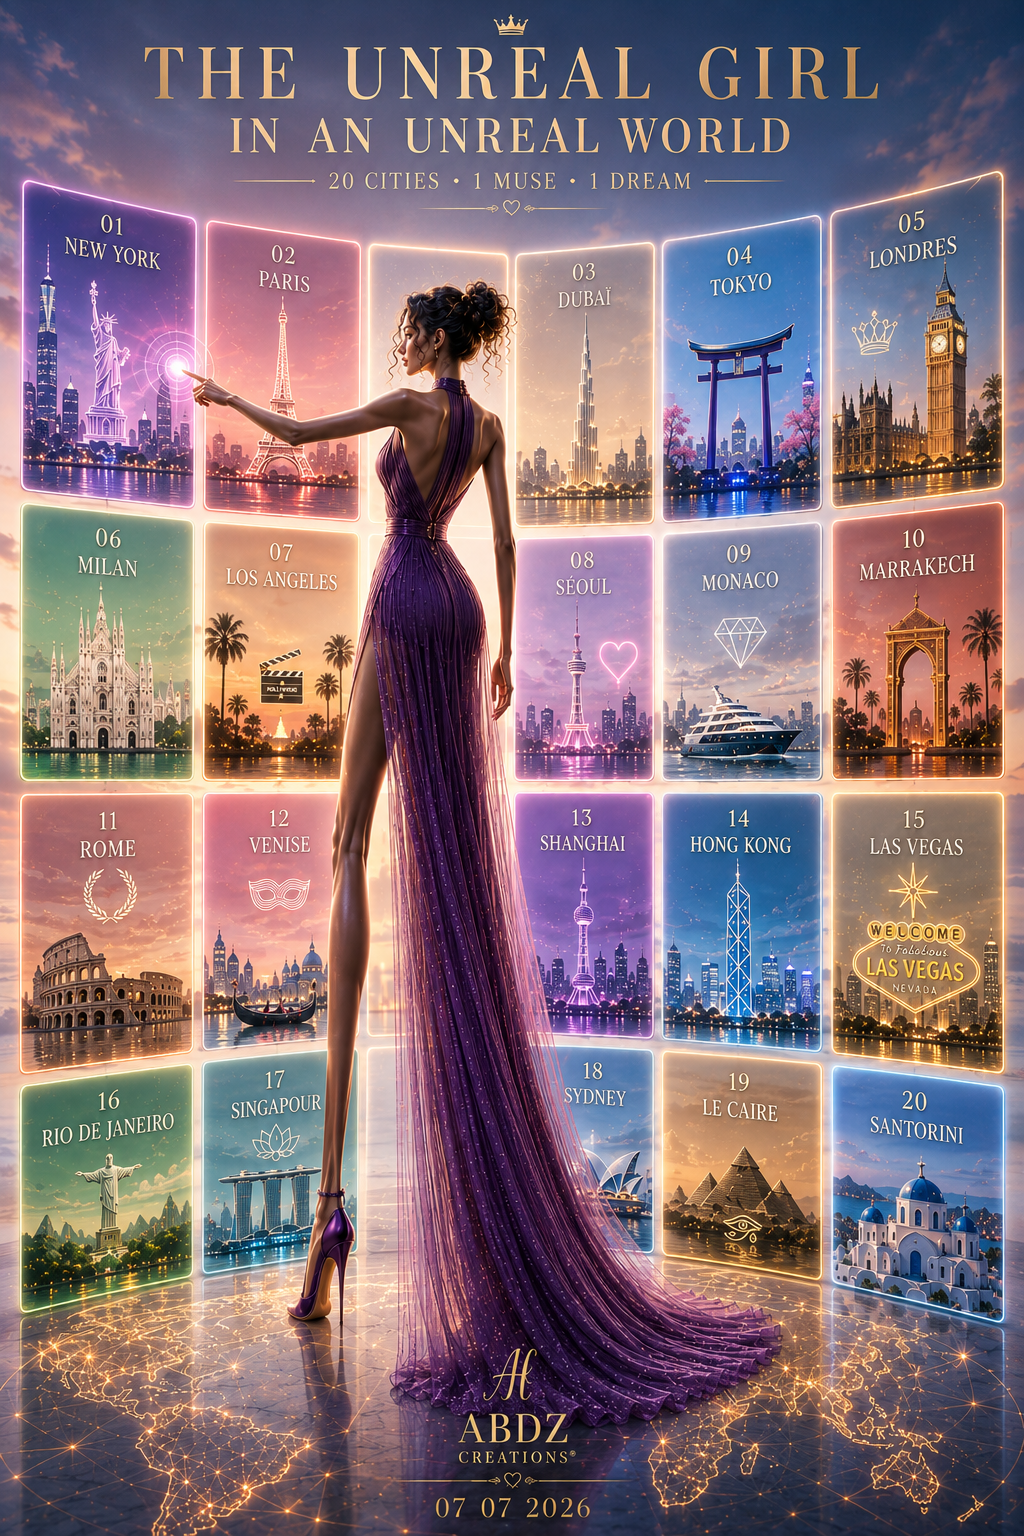
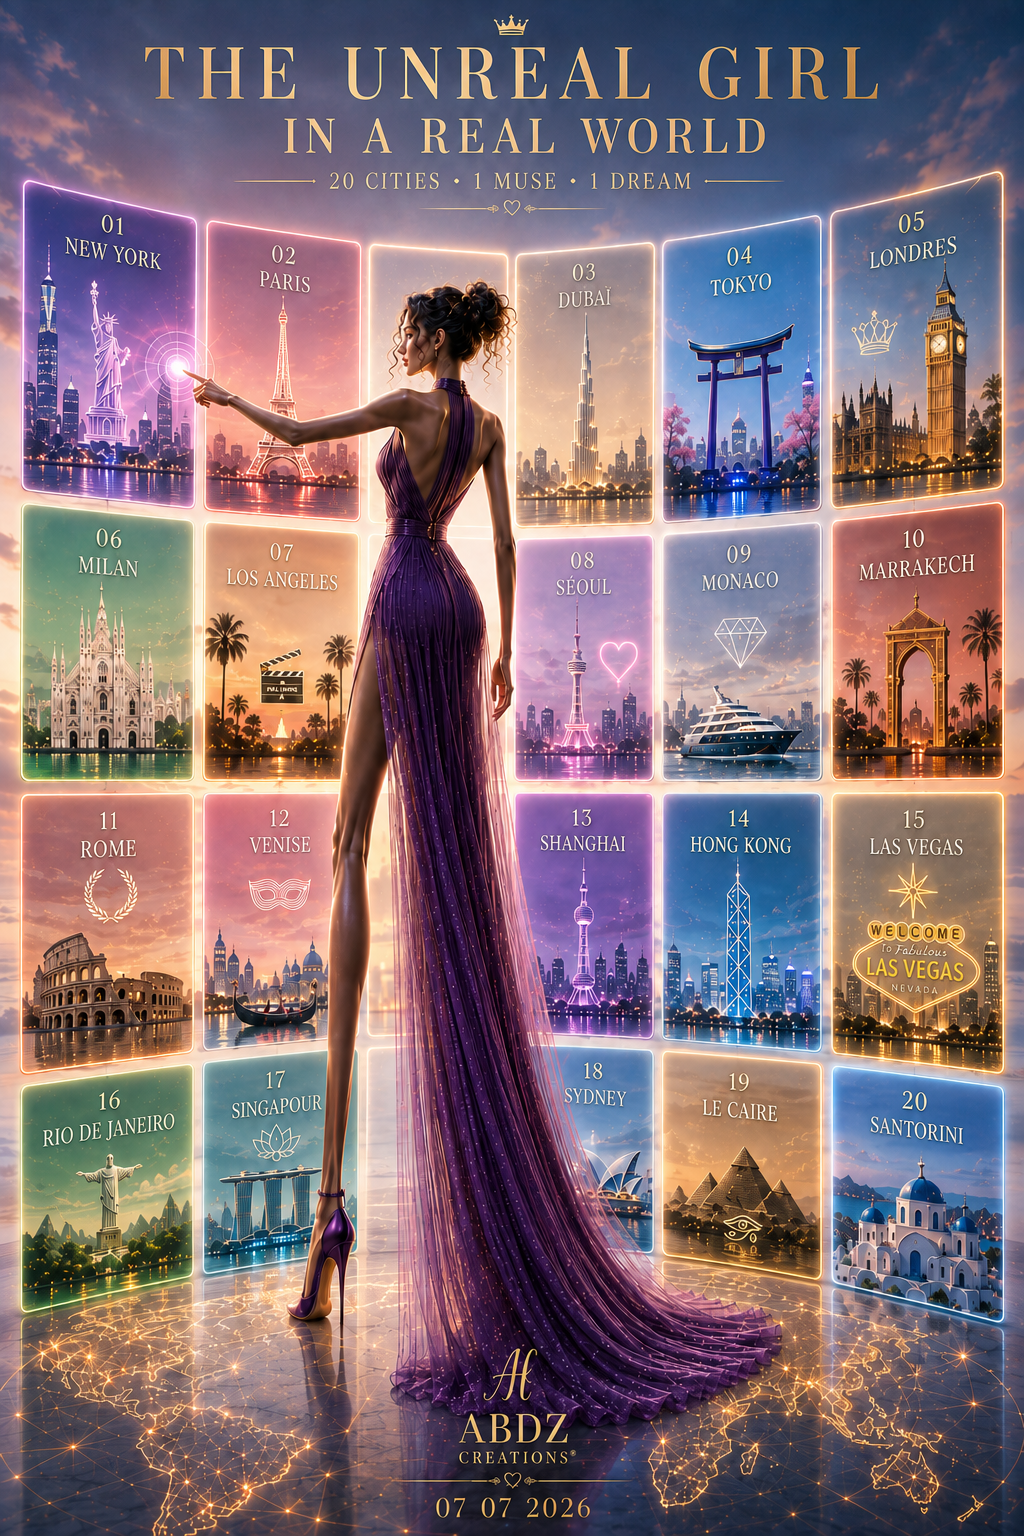
Corriger le voyage de L'Ireelle (#1)

diff --git a/ireelle-voyage/index.html b/ireelle-voyage/index.html
@@ -42,6 +42,36 @@
       font: inherit;
     }
 
+    .portfolio-return {
+      position: fixed;
+      top: 18px;
+      right: 18px;
+      z-index: 1000;
+      display: inline-flex;
+      align-items: center;
+      justify-content: center;
+      min-height: 46px;
+      padding: 0 18px;
+      border: 1px solid var(--gold);
+      border-radius: 999px;
+      background: rgba(7, 5, 7, 0.94);
+      box-shadow: 0 0 24px rgba(215, 169, 90, 0.24);
+      color: var(--ink);
+      font-size: 12px;
+      font-weight: 800;
+      letter-spacing: 1px;
+      text-decoration: none;
+      text-transform: uppercase;
+      backdrop-filter: blur(10px);
+    }
+
+    .portfolio-return:hover,
+    .portfolio-return:focus-visible {
+      background: var(--gold);
+      color: #070507;
+      outline: none;
+    }
+
     .shell {
       width: min(1780px, 100%);
       margin: 0 auto;
@@ -394,6 +424,8 @@
   </style>
 </head>
 <body>
+  <a class="portfolio-return" href="../index.html#sommaire" aria-label="Retour au sommaire du portfolio ABDZ">← Retour au portfolio</a>
+
   <div class="start-gate" id="startGate">
     <div class="start-box">
       <p class="eyebrow">ABDZ / Unreal Girl</p>